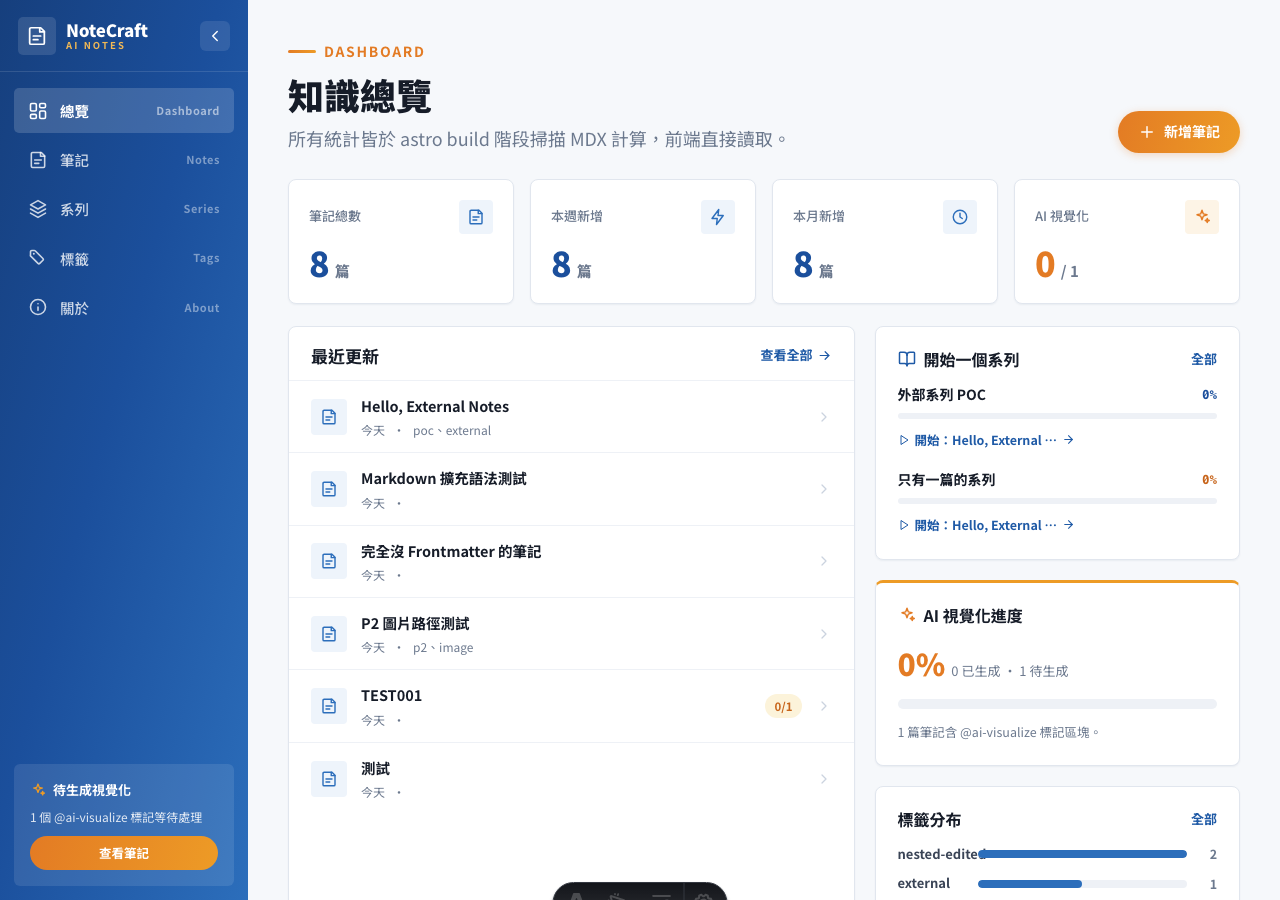
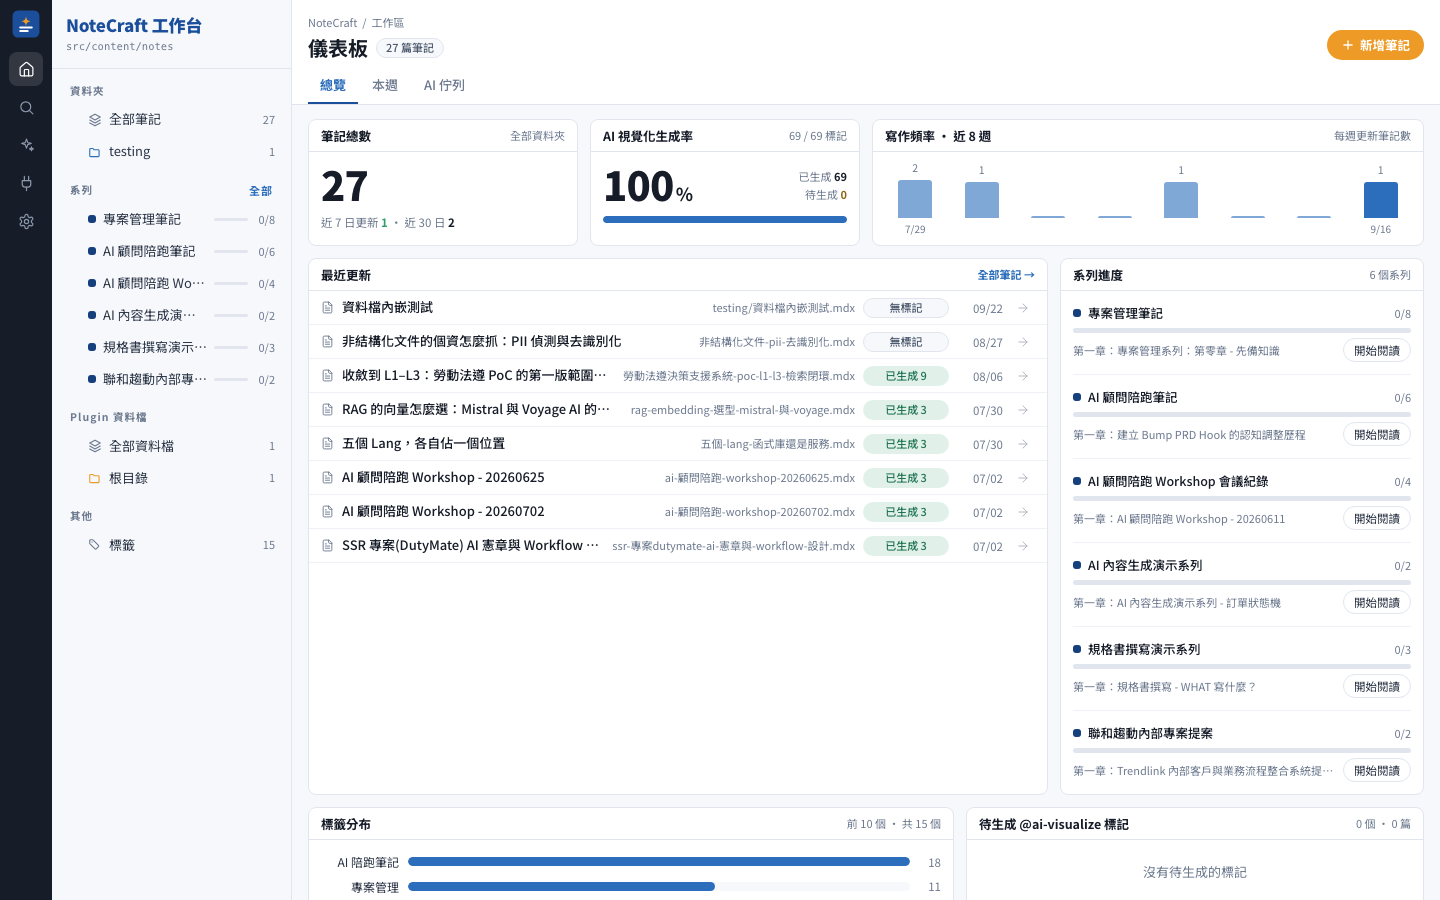
chore(release): notecraftapp 升版為 1.0.0，README 換上工作台版面的截圖
- **調整** `package.json` 版本 0.7.0 → 1.0.0；CHANGELOG 的本版條目改為 [1.0.0] 並說明升大版號的理由（殼與所有列表頁重寫）
- **調整** README：功能列表的版號、首圖與新增的四張畫面（筆記列表、Drawer、Board、Plugin 管理）
- **新增** 8 張 1440×900 截圖：dashboard、notes-list、notes-drawer、notes-board、note-detail、series、plugins、new-note-modal，皆為 Workbench 版面
- **調整** `docs/screenshots/CAPTURE.md`：改為 headless Chrome 一次拍完的流程，並提醒避開 `private/` 與 dev toolbar
- **調整** CLAUDE.md、workbench 規格、plugin 設計文件、tasks 文件裡的 v0.7.0 一律改為 v1.0.0

diff --git a/docs/screenshots/CAPTURE.md b/docs/screenshots/CAPTURE.md
@@ -1,70 +1,57 @@
 # Screenshot 捕捉指南
 
-README.md 引用了下列 5 張截圖，請在 publish 前放進本資料夾。
+README.md 引用了下列 8 張截圖（v1.0.0 Workbench 版面），請在 publish 前放進本資料夾。
 
 ## 建議設定
 
-- **視窗尺寸**：1280 × 800（桌面標準）
+- **視窗尺寸**：1440 × 900（桌面三欄常駐；1280 時筆記頁的右側目錄會收成上方的折疊面板）
 - **顯示縮放**：100%
-- **瀏覽器**：Chrome 或 Safari（去掉 devtools）
-- **格式**：PNG，儲存路徑對應下列檔名
+- **不要露出 `private/` 的筆記**：那個資料夾在 `.gitignore`，截圖卻會進 repo。拍之前先把它暫時移走，或用另一份示範資料夾
+- **關掉 Astro dev toolbar**：`npx astro preferences disable devToolbar`（寫在 `.astro/settings.json`，已 gitignore），拍完再 `enable`
+- **格式**：PNG，檔名對應下列清單
 
-## 準備測試環境
+## 用 headless Chrome 一次拍完
 
-啟動 CLI view 模式指向乾淨的示範資料夾：
+dev server 開在 4329（或改成你的 port）：
 
 ```bash
-node bin/notecraftapp.mjs view tmp/notecraft-test --port 4321
+CH="/Applications/Google Chrome.app/Contents/MacOS/Google Chrome"
+shot(){ "$CH" --headless=new --disable-gpu --hide-scrollbars --window-size=1440,900 --virtual-time-budget=10000 --screenshot="docs/screenshots/$1.png" "$2"; }
+shot dashboard   "http://localhost:4329/"
+shot notes-list  "http://localhost:4329/notes"
+shot notes-board "http://localhost:4329/notes?view=board"
+shot note-detail "http://localhost:4329/notes/<某篇有 tags、多段內文與 h2 的筆記>"
+shot series      "http://localhost:4329/series"
+shot plugins     "http://localhost:4329/plugins?tab=installed"
 ```
 
-（或用你自己精心準備的 md/mdx 資料夾以便有真實內容）
+`--virtual-time-budget` 讓 island hydrate 完（相對時間、系列進度、Sidebar 高亮都靠 client）再拍。
 
-## 5 張要拍的圖
+需要互動的兩張（Drawer、新增筆記 Modal）放一個暫時的 `public/_shot.html`，用同源 iframe 載入頁面後
+`dispatchEvent(new CustomEvent("nc-open-new-note"))` 或點第 N 列的 `.wb-row-main`，拍完把檔案刪掉。
+點完記得 `document.activeElement.blur()`，否則關閉鈕會帶著 focus ring 入鏡。
 
-### 1. `dashboard.png`
-- URL：`http://localhost:4321/`
-- 內容：儀表板首頁完整畫面
-- 重點：KPI 卡（筆記總數 / 本週新增 / 本月新增 / AI 視覺化）、「最近更新」列表、右側「繼續閱讀」+「AI 視覺化進度」+ 標籤分布
-- 建議先造 8–10 篇有意義的筆記，避免空空的畫面
+## 8 張圖
 
-### 2. `note-detail.png`
-- URL：`http://localhost:4321/notes/<某篇有 tags 和多段內文的筆記>`
-- 內容：筆記詳細頁，含側邊目錄、標籤 chip、「以 VS Code 編輯」/「刪除筆記」按鈕、內文 render
-- 重點：展示閱讀體驗
-
-### 3. `series.png`
-- URL：`http://localhost:4321/series`
-- 內容：系列總覽，展示外部 `.notecraft/series.json` 定義的系列卡片
-- 重點：藍/橘 accent、章節數、進度條、「繼續閱讀」CTA
-- 建議 tmp/notecraft-test/.notecraft/series.json 至少定義 2 個系列（範例本 repo 已附）
-
-### 4. `new-note-modal.png`
-- URL：`http://localhost:4321/`，然後點右上「+ 新增筆記」開啟 modal
-- 內容：新增筆記表單，含標題、標籤選單、資料夾下拉、建立按鈕
-- 重點：資料夾下拉顯示的是**你當前 notes 資料夾的實際路徑**（例 `tmp/notecraft-test/`），不是硬編碼的 `src/content/notes/`
-
-## macOS 快速拍法
-
-- `Cmd + Shift + 4`，拖範圍
-- 儲存到 `docs/screenshots/<檔名>.png`
-- 拍完可以用 [ImageOptim](https://imageoptim.com/mac) 壓一下體積
+| 檔名 | 頁面 | 重點 |
+| --- | --- | --- |
+| `dashboard.png` | `/` | widget grid：筆記總數、AI 生成率、近 8 週長條、最近更新、系列進度、標籤分布、待生成標記 |
+| `notes-list.png` | `/notes` | List view 依資料夾分組、Toolbar 的分組與篩選 chip、列尾常駐的「開啟」箭頭 |
+| `notes-drawer.png` | `/notes` 點一列 | 右側 480px Drawer：摘要、Metadata、標記、同系列章節 |
+| `notes-board.png` | `/notes?view=board` | 三欄（未開始／閱讀中／已完成）；先在 localStorage 放幾個閱讀狀態畫面才不會全擠在第一欄 |
+| `note-detail.png` | `/notes/<slug>` | 頁首接手標題與動作（簡報、收藏、⋯）、內文、右側黏性目錄 |
+| `series.png` | `/series` | stat strip + 一列一個系列 |
+| `plugins.png` | `/plugins?tab=installed` | 四格 stat strip、外掛列與 Switch、安裝 callout |
+| `new-note-modal.png` | `/` 按「＋ 新增筆記」 | 表單；資料夾下拉顯示的是你當前 notes 資料夾的實際路徑 |
 
 ## 拍完後
 
 1. `git add docs/screenshots/*.png`
 2. push 到 GitHub
-3. 確認 `package.json` 的 `repository` 欄位填上真實 GitHub URL（npm.js 會靠這個 rewrite 成 raw URL）
-4. `npm pack --dry-run` 確認截圖 **沒有** 被打包進 npm tarball（`.npmignore` 已排除 `docs/`）
+3. `npm pack --dry-run` 確認截圖**沒有**被打包進 npm tarball（`.npmignore` 已排除 `docs/`）
 
 ## 為什麼截圖不塞進 npm 套件
 
-- 4 張 png 加起來可能 1–2 MB，塞進去每個 npx 使用者都要下載
+- 8 張 png 加起來約 1.8 MB，塞進去每個 npx 使用者都要下載
 - npm README 頁面用絕對 GitHub raw URL 才會顯示；相對路徑到套件內部 npm 不會 render
 - 所以截圖只需要放在 GitHub repo，不需要打包
-
-### 5. `present.png`（v0.3.0 新增，尚未拍）
-
-- URL：`http://localhost:4321/present/<某篇已生成簡報的筆記>`
-- 內容：簡報檢視模式 —— 左側投影片縮覽 + 右側當前頁
-- 重點：挑一頁 `custom` 內容頁（有 Rows / Cards / Kpi 之類的版面）而非封面，才看得出「內容豐富」的樣子；若該頁嵌了既有互動元件更好
-- 拍完在 README 的〈簡報層〉一節下方插入 `![Presentation](./docs/screenshots/present.png)`

diff --git a/docs/tasks/task-75-cleanup-docs-release.md b/docs/tasks/task-75-cleanup-docs-release.md
@@ -1,4 +1,4 @@
-# Task 75 — 清理、文件回填、viewer 端對端驗證與發版（v0.7.0）
+# Task 75 — 清理、文件回填、viewer 端對端驗證與發版（v1.0.0）
 
 > 規格 [notecraft-workbench.md](../notecraft-workbench.md) §2（去留清單）、§12（viewer 相容性）、§13 P13、§14（風險）。
 > 依賴 Task 59–74 全部。對應實作階段 **P13**，本批最後一個。
@@ -30,8 +30,8 @@
 | [CLAUDE.md](../../CLAUDE.md) | ① 目錄結構加 `src/components/wb/`、`src/layouts/WorkbenchLayout.astro`、`src/styles/workbench.css`、`src/lib/workbench.ts`；② 新增「Workbench」一節：殼的切分原則、`id="nc-scroll"` 不可拿掉、列的 DOM 規則（連結與按鈕並排不巢狀）、`?folder=` 用真實路徑不是 slug、路徑顯示不得含絕對路徑；③ dev-only API 清單加 `PUT /api/plugins/:id`、`GET /api/folders` 改為遞迴；④ dev／正式差異清單更新（「⋯」選單、複製生成提示、Plugin Switch）；⑤ Plugin System 一節補 `disabled` 陣列與 `meta.backTo` 約定；⑥ **修正兩句與事實不符的敘述**：`LOCAL_EDIT=1` build 旗標在程式碼裡不存在、「Pre-push hook 跑 `astro build`」實際上沒有這個 hook（`.git/hooks` 只有 sample，也沒有 husky）—— 要嘛刪掉這兩句，要嘛另開任務把它們做出來，由作者決定 |
 | [notecraft-prd.md](../notecraft-prd.md) | 用 `/bump-prd` 補 §8.1 的 Phase 條目與 changelog。注意 Phase 4.13–4.15 之前也還欠著（見 tasks README 的註記） |
 | [notecraft-plugin-system.md](../notecraft-plugin-system.md) | 補三筆修訂：① Q6「`/notes` 列表：進」→ 移出（本批 Q14）；② §8.2 `meta.backTo` 升格為 app 層約定並限制站內路徑（本批 Q21）；③ §15「仍未做的」把 pagefind 一項劃掉 —— 它其實早已實作。另補 `disabled` 陣列（本批 Q22）到 §5 |
-| [notecraft-workbench.md](../notecraft-workbench.md) | 比照 plugin 設計文件 §15，新增「實作後回填」一節：各待驗證項的實測結果、實作中新增的決定、仍未做的。文件狀態改為「已實作（v0.7.0）」。**順手更正 §13 交付節奏那句「pre-push hook 本來就會擋」—— 沒有這個 hook** |
-| [README.md](../../README.md)、[CHANGELOG.md](../../CHANGELOG.md) | 截圖、功能列表、v0.7.0 條目。CHANGELOG 要列出**使用者看得到的移除項**：多標籤篩選、排序切換、字數、`/about` 與 `/view` 列表頁（已轉址）、Dashboard 的簡報統計 |
+| [notecraft-workbench.md](../notecraft-workbench.md) | 比照 plugin 設計文件 §15，新增「實作後回填」一節：各待驗證項的實測結果、實作中新增的決定、仍未做的。文件狀態改為「已實作（v1.0.0）」。**順手更正 §13 交付節奏那句「pre-push hook 本來就會擋」—— 沒有這個 hook** |
+| [README.md](../../README.md)、[CHANGELOG.md](../../CHANGELOG.md) | 截圖、功能列表、v1.0.0 條目。CHANGELOG 要列出**使用者看得到的移除項**：多標籤篩選、排序切換、字數、`/about` 與 `/view` 列表頁（已轉址）、Dashboard 的簡報統計 |
 | 各 Task 檔末 | 補「實作記錄」（日期、實際改了什麼、偏離原計畫的理由），比照 Task 49、52 的寫法 |
 | 本目錄 [README.md](README.md) | 把本批標為已完成，寫完成摘要 |
 
@@ -46,7 +46,7 @@
 
 ### 4. `package.json`
 
-- `version` → `0.7.0`
+- `version` → `0.7.0`（實際發版時改為 **1.0.0**：外殼與所有列表頁重寫，作者定為大版號）
 - `files`：確認含 `src/components/wb/`（Task 59 已加）。用 `npm pack --dry-run` 列出清單，逐一確認本批新增的檔案都在：
   `src/components/wb/**`、`src/layouts/WorkbenchLayout.astro`、`src/styles/workbench.css`、`src/lib/{workbench,wb-filter,wb-prefs,wb-time,wb-escape,prompts}.ts`、
   `src/pages/{wb-index.json.ts,settings.astro,plugins/**}`、`public/favicon.svg`
@@ -109,7 +109,7 @@ Task 59–74。
 - 刪除 `Card.astro`、`Button.astro`、`TagChip.astro`（0 引用）；`Badge.astro`、`AiMarkerCard.astro`、`DownloadButton.astro` 仍有引用保留。`global.css` 沒有舊殼規則（它們原本在已刪的 `Sidebar.astro`／`BaseLayout.astro` 裡）
 - layout pre-paint script 清一次 `nc:sidebar`
 - 文件：CLAUDE.md（Workbench 一節、目錄結構、dev API、dev／正式差異、`LOCAL_EDIT` 與 pre-push hook 兩句更正）、plugin 設計文件三筆修訂 + `disabled`、workbench 規格 §17 回填、PRD v1.13.0（Phase 4.15、4.16、Site Map）、CHANGELOG 0.7.0、README
-- `package.json` → 0.7.0；`npm pack --dry-run` 確認 `src/components/wb/**`、`workbench.css`、`wb-index.json.ts`、`plugins/**`、`settings.astro`、`favicon.svg` 都在
+- `package.json` → 1.0.0；`npm pack --dry-run` 確認 `src/components/wb/**`、`workbench.css`、`wb-index.json.ts`、`plugins/**`、`settings.astro`、`favicon.svg` 都在
 - viewer 端對端：外部資料夾 `myproj/docs`（含 `My Notes/Deep Dir/`、無 frontmatter 的 `.md`）build 成功，Sidebar 顯示真實資料夾名，`grep -r "$HOME" dist/` 0 筆
 - 500 篇筆記的 viewer 專案：build 8.7 秒、`wb-index.json` 133 KB、`/notes` HTML 928 KB（props inline）；瀏覽器體感未在本輪量測，已記入規格 §17「仍未做的」
 - 順手修：`/view/*` 的 `rendererPath`（renderer 絕對路徑）原本在正式 build 也 inline 進 island props，改為只在 dev 傳（viewer 端對端 `grep -r "$HOME" dist/` 才抓到）

diff --git a/README.md b/README.md
@@ -18,6 +18,27 @@
 
 ![Dashboard](./docs/screenshots/dashboard.png)
 
+<details>
+<summary>更多畫面：筆記列表、Drawer 預覽、Board、Plugin 管理</summary>
+
+**筆記列表（List view）** — 依資料夾／系列／標籤／月份分組，篩選全在網址參數，`⌘K` 隨時跨頁跳轉。
+
+![Notes list](./docs/screenshots/notes-list.png)
+
+**Drawer 預覽** — 單擊一列在右側預覽摘要、Metadata、`@ai-visualize` 標記與同系列章節；雙擊或列尾的箭頭才進筆記。
+
+![Note drawer](./docs/screenshots/notes-drawer.png)
+
+**Board view** — 依閱讀狀態分三欄，拖曳卡片就改狀態。
+
+![Board view](./docs/screenshots/notes-board.png)
+
+**Plugin 管理** — 已安裝外掛、映射規則、命中的資料檔，dev 下可一鍵啟用／停用。
+
+![Plugins](./docs/screenshots/plugins.png)
+
+</details>
+
 ---
 
 ## 為什麼要 NoteCraftApp
@@ -28,7 +49,7 @@
 - **放大檢視** — 內文欄寬容不下的元件（並排結構圖、RACI 矩陣、寬表格），一鍵搬進全螢幕的可拖曳平移、可縮放畫布來讀，**互動完整保留**，還能匯出 100% 原尺寸 PNG
 - **筆記轉簡報** — 一篇筆記一鍵變成 16:9 多頁簡報，`/present/<slug>` 可全螢幕播放。**筆記裡的互動元件原樣搬進投影片，播放時照樣能點、能拖**
 - **即時 preview** — `serve` 內建背景 rebuild + SSE auto reload：Claude Code 在另一個 terminal 寫檔、viewer 這邊瀏覽器自動刷新，全程免手動重啟
-- **工作台（v0.7.0）** — 三欄殼：Rail + 檔案樹 Sidebar + 主區。筆記列表有 List／Board／Table／Timeline 四種 view 與側邊 Drawer 預覽，Board 拖曳即改閱讀狀態；`⌘K` 指令面板跨頁跳轉並含 pagefind 全文搜尋
+- **工作台（v1.0.0）** — 三欄殼：Rail + 檔案樹 Sidebar + 主區。筆記列表有 List／Board／Table／Timeline 四種 view 與側邊 Drawer 預覽，Board 拖曳即改閱讀狀態；`⌘K` 指令面板跨頁跳轉並含 pagefind 全文搜尋
 - **儀表板** — widget grid：筆記總數、近 8 週寫作頻率、最近更新、系列進度（一鍵繼續閱讀）、標籤分布、待生成標記；另有「本週」「AI 佇列」兩個 Tab
 - **系列** — 多份筆記串成有順序的閱讀路徑，含進度條與單鍵推進；資料檔頁也能是一章
 - **Plugin** — 結構化 JSON 交給可安裝的渲染器畫成頁面；`/plugins` 看得到映射規則、命中檔與外掛檔案，可在 dev 一鍵啟用／停用

diff --git a/docs/tasks/README.md b/docs/tasks/README.md
@@ -246,7 +246,7 @@
 > 否則是全站回歸。[Task 51](task-51-er-diagram-renderer-plugin.md) 則是唯一「已經有正確答案」的 Task——
 > 舊元件的行為就是驗收基準，任何差異都是回歸。
 
-## v1.13.0 追加功能（§8.1 Phase 4.16）— Workbench 改版（notecraftapp v0.7.0）
+## v1.13.0 追加功能（§8.1 Phase 4.16）— Workbench 改版（notecraftapp v1.0.0）
 
 > **已完成（2026-09-22）**：Task 59–75 全部實作並逐 Task commit 於 `feat/workbench-redesign`。四個待驗證項的結論回填於規格 §17；各 Task 檔末有「實作記錄」。
 > 完成摘要：殼全換、`/notes` 四種 view + Drawer、`⌘K`、Dashboard widget grid、`/plugins`（含啟用／停用）、`/settings`、舊網址轉址、三段響應式與無障礙；刪除 8 個舊 island／元件。偏離原計畫的三處：`bare`／`bareBody` 兩種 layout 模式取代 `noHeader`；TOC 斷點改 container query；預設與 muted pill 文字色為對比而微調。
@@ -281,7 +281,7 @@
 | [Task 72](task-72-view-page-header.md) | 資料檔渲染頁換頁首 | §8.7 | `pages/view/[...path].astro`、`meta.backTo` 檢查、pagefind 標記搬家 |
 | [Task 73](task-73-settings-about-redirects.md) | 設定與關於、舊網址轉址 | §8.8、§6 | `pages/settings.astro`、`wb/SettingsView.tsx`、`astro.config.mjs` `redirects`；刪 `about.astro` |
 | [Task 74](task-74-responsive-a11y.md) | 響應式三段 + 無障礙收尾 | §9、§10 | `workbench.css`、各元件 `aria-*`、TOC 斷點 |
-| [Task 75](task-75-cleanup-docs-release.md) | 清理、文件回填、viewer 端對端、發版 | §12、§13 P13 | 刪舊元件、CLAUDE.md／PRD／plugin 規格／CHANGELOG、`npm pack --dry-run`、v0.7.0 |
+| [Task 75](task-75-cleanup-docs-release.md) | 清理、文件回填、viewer 端對端、發版 | §12、§13 P13 | 刪舊元件、CLAUDE.md／PRD／plugin 規格／CHANGELOG、`npm pack --dry-run`、v1.0.0 |
 
 **順序**：59、60 是地基，可並行，先做。**61 是唯一必須全站同時切換的一步** —— 它只換殼、各頁內容原樣搬進來，
 完成後畫面會是「新殼 + 舊卡片版面」，這是預期中的中間態。

diff --git a/CLAUDE.md b/CLAUDE.md
@@ -92,7 +92,7 @@ status: pending | generated | locked | failed
 
 色票、字級、間距、圓角、陰影一律遵循外部 **`trendlink-design` Skill**。生成元件前先讀取其 SKILL.md，優先使用其 token / class，**不要硬編碼色碼**。僅在 prompt 明確要求跳脫設計系統時例外，並在對話中說明。
 
-## Workbench 工作台（v0.7.0）
+## Workbench 工作台（v1.0.0）
 
 殼是 Rail 52 + Sidebar 240 + 主區（Header／Toolbar 40／Body），**整頁不捲動**，只有 `#nc-scroll.wb-body` 與 Sidebar 內部捲動。
 完整設計見 [docs/notecraft-workbench.md](docs/notecraft-workbench.md)，像素級規格在 `docs/prototype/design_handoff_workbench/`。
@@ -129,7 +129,7 @@ status: pending | generated | locked | failed
 
 ### 幾條不會變的規則
 
-- **`plugins.json` 頂層 `disabled: string[]`**（v0.7.0）：停用的 plugin 其所有規則在比對前就略過、等同不存在，也不參與安裝檢查（壞掉的 plugin 先停用，站仍 build 得出來）。停用不是解除安裝，renderer 仍在 client chunk
+- **`plugins.json` 頂層 `disabled: string[]`**（v1.0.0）：停用的 plugin 其所有規則在比對前就略過、等同不存在，也不參與安裝檢查（壞掉的 plugin 先停用，站仍 build 得出來）。停用不是解除安裝，renderer 仍在 client chunk
 - **`meta.backTo` 是 app 層約定的第三個 meta 欄位**（與 `meta.title`、`meta.description` 並列）：「回到來源筆記」的站內路徑，只接受單一 `/` 開頭，不符者忽略並 warn
 - **入口固定 `renderer.tsx`**，manifest 不放 `entry`；吃哪些檔完全由 `plugins.json` 的 `files` 決定，manifest 也不放 `accepts`
 - **`files` 的基準是 notesDir** —— 資料檔必須放在筆記資料夾內；不允許比對 `.md` / `.mdx`

diff --git a/CHANGELOG.md b/CHANGELOG.md
@@ -4,10 +4,10 @@
 
 格式依循 [Keep a Changelog 1.1.0](https://keepachangelog.com/zh-TW/1.1.0/)，版號依循 [Semantic Versioning](https://semver.org/lang/zh-TW/)。
 
-## [0.7.0] - 2026-09-22
+## [1.0.0] - 2026-09-22
 
 **Workbench 工作台** —— 外殼整個換掉：Rail 52 + 檔案樹 Sidebar 240 + 壓縮頁首／工具列／內容，整頁不捲動。
-所有列表頁共用同一套資料列語彙。設計見 `docs/notecraft-workbench.md`，像素級規格在 `docs/prototype/design_handoff_workbench/`。
+所有列表頁共用同一套資料列語彙。這是自 v0.1 以來最大的一次改版，殼與每個列表頁都重寫，因此直接進 **1.0.0**。設計見 `docs/notecraft-workbench.md`，像素級規格在 `docs/prototype/design_handoff_workbench/`。
 
 ### 新增
 
